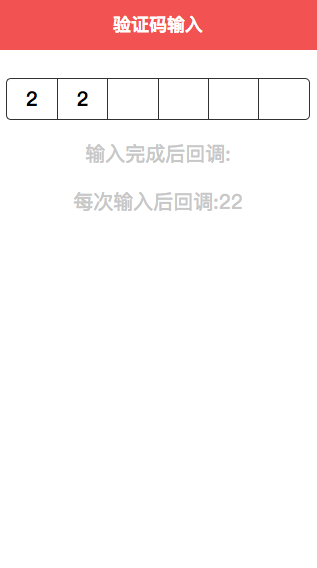
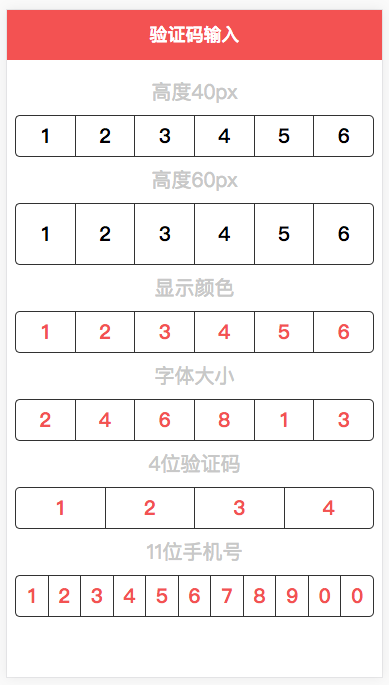
update example

Changed region(s): [[0.0, 0.1197, 0.9937, 0.9278], [0.0, 0.0, 1.0, 0.0898]]

diff --git a/example/VueInputCode.js b/example/VueInputCode.js
@@ -62,6 +62,11 @@
 		el: "#app",
 		data: {
 			code: [],
+			code1: [],
+			code2: [],
+			code3: [],
+			code4: [],
+			code5: [],
 			codeString: "",
 			input: ""
 		},
@@ -9279,7 +9284,7 @@
 	  /* template */
 	  __webpack_require__(11),
 	  /* scopeId */
-	  null,
+	  "data-v-6af92382",
 	  /* cssModules */
 	  null
 	)
@@ -9314,13 +9319,13 @@
 	if(typeof content === 'string') content = [[module.id, content, '']];
 	if(content.locals) module.exports = content.locals;
 	// add the styles to the DOM
-	var update = __webpack_require__(7)("cec73cd0", content, false);
+	var update = __webpack_require__(7)("1eb9046d", content, false);
 	// Hot Module Replacement
 	if(false) {
 	 // When the styles change, update the <style> tags
 	 if(!content.locals) {
-	   module.hot.accept("!!../node_modules/css-loader/index.js!../node_modules/vue-loader/lib/style-rewriter.js?id=data-v-6af92382!../node_modules/vue-loader/lib/selector.js?type=styles&index=0!./inputcode.vue", function() {
-	     var newContent = require("!!../node_modules/css-loader/index.js!../node_modules/vue-loader/lib/style-rewriter.js?id=data-v-6af92382!../node_modules/vue-loader/lib/selector.js?type=styles&index=0!./inputcode.vue");
+	   module.hot.accept("!!../node_modules/css-loader/index.js!../node_modules/vue-loader/lib/style-rewriter.js?id=data-v-6af92382&scoped=true!../node_modules/vue-loader/lib/selector.js?type=styles&index=0!./inputcode.vue", function() {
+	     var newContent = require("!!../node_modules/css-loader/index.js!../node_modules/vue-loader/lib/style-rewriter.js?id=data-v-6af92382&scoped=true!../node_modules/vue-loader/lib/selector.js?type=styles&index=0!./inputcode.vue");
 	     if(typeof newContent === 'string') newContent = [[module.id, newContent, '']];
 	     update(newContent);
 	   });
@@ -9408,7 +9413,7 @@
 
 
 	// module
-	exports.push([module.id, "#vue_input_code {\n  width: 100%; }\n  #vue_input_code .input {\n    width: 100%;\n    position: relative;\n    display: -ms-flexbox;\n    display: flex;\n    -ms-flex-direction: row;\n        flex-direction: row;\n    -ms-flex-pack: center;\n        justify-content: center;\n    -ms-flex-align: center;\n        align-items: center; }\n    #vue_input_code .input > div {\n      border: 1px solid #323232;\n      font-weight: 900;\n      background-color: white; }\n      #vue_input_code .input > div:nth-child(n) {\n        border-right: none; }\n      #vue_input_code .input > div:last-child {\n        border-top-right-radius: 5px;\n        border-bottom-right-radius: 5px;\n        border-right: 1px solid #323232; }\n      #vue_input_code .input > div input {\n        font-size: 20px;\n        width: 90%;\n        color: #323232;\n        text-align: center;\n        outline: none;\n        border: none;\n        margin-right: 5px; }\n    #vue_input_code .input .input-code {\n      position: absolute;\n      top: 0;\n      left: 0;\n      margin-left: 1%;\n      border: none;\n      background: none;\n      display: -ms-flexbox;\n      display: flex;\n      -ms-flex-direction: row;\n          flex-direction: row;\n      -ms-flex-pack: center;\n          justify-content: center;\n      -ms-flex-align: center;\n          align-items: center; }\n    #vue_input_code .input > span {\n      border: 1px solid #323232;\n      font-weight: 900;\n      background-color: white;\n      display: inline-block;\n      text-align: center;\n      font-size: 20px; }\n      #vue_input_code .input > span:nth-child(n) {\n        border-right: none; }\n      #vue_input_code .input > span:first-child {\n        border-top-left-radius: 5px;\n        border-bottom-left-radius: 5px; }\n      #vue_input_code .input > span:last-child {\n        border-top-right-radius: 5px;\n        border-bottom-right-radius: 5px;\n        border-right: 1px solid #323232; }\n    #vue_input_code .input > span.first {\n      border-top-left-radius: 5px;\n      border-bottom-left-radius: 5px; }\n    #vue_input_code .input .input-code.first {\n      border-top-left-radius: 5px;\n      border-bottom-left-radius: 5px; }\n    #vue_input_code .input .input-code.last {\n      border-top-right-radius: 5px;\n      border-bottom-right-radius: 5px; }\n", ""]);
+	exports.push([module.id, "#vue_input_code {\n  width: 100%; }\n  #vue_input_code .input {\n    width: 100%;\n    position: relative;\n    display: -ms-flexbox;\n    display: flex;\n    -ms-flex-direction: row;\n        flex-direction: row;\n    -ms-flex-pack: center;\n        justify-content: center;\n    -ms-flex-align: center;\n        align-items: center; }\n    #vue_input_code .input > div {\n      border: 1px solid #323232;\n      font-weight: 900;\n      background-color: white; }\n      #vue_input_code .input > div:nth-child(n) {\n        border-right: none; }\n      #vue_input_code .input > div:last-child {\n        border-top-right-radius: 5px;\n        border-bottom-right-radius: 5px;\n        border-right: 1px solid #323232; }\n      #vue_input_code .input > div input {\n        font-size: 20px;\n        width: 90%;\n        color: #323232;\n        text-align: center;\n        outline: none;\n        border: none;\n        margin-right: 5px;\n        -webkit-tap-highlight-color: rgba(255, 255, 255, 0); }\n    #vue_input_code .input .input-code {\n      position: absolute;\n      top: 0;\n      left: 0;\n      margin-left: 1%;\n      border: none;\n      background: none;\n      display: -ms-flexbox;\n      display: flex;\n      -ms-flex-direction: row;\n          flex-direction: row;\n      -ms-flex-pack: center;\n          justify-content: center;\n      -ms-flex-align: center;\n          align-items: center; }\n    #vue_input_code .input > span {\n      border: 1px solid #323232;\n      font-weight: 900;\n      background-color: white;\n      display: inline-block;\n      text-align: center;\n      font-size: 20px; }\n      #vue_input_code .input > span:nth-child(n) {\n        border-right: none; }\n      #vue_input_code .input > span:first-child {\n        border-top-left-radius: 5px;\n        border-bottom-left-radius: 5px; }\n      #vue_input_code .input > span:last-child {\n        border-top-right-radius: 5px;\n        border-bottom-right-radius: 5px;\n        border-right: 1px solid #323232; }\n    #vue_input_code .input > span.first {\n      border-top-left-radius: 5px;\n      border-bottom-left-radius: 5px; }\n    #vue_input_code .input .input-code.first {\n      border-top-left-radius: 5px;\n      border-bottom-left-radius: 5px; }\n    #vue_input_code .input .input-code.last {\n      border-top-right-radius: 5px;\n      border-bottom-right-radius: 5px; }\n", ""]);
 
 	// exports
 

diff --git a/example/example.html b/example/example.html
@@ -30,7 +30,12 @@
       display: inline-block;
     }
     #app{
-      padding-top:70px;
+      padding-top:50px;
+    }
+    p{
+      color:#c8c8c8;
+      text-align: center;
+      margin:10px 0;
     }
   </style>
 </head>
@@ -38,11 +43,20 @@
 <body>
   <header class="header"><span>验证码输入</span></header>
 	<div id="app">
-		<vue-input-code span-size="20px" type="number" :number="6" height="50px" span-color="#f35252" input-color="#3498db" input-size="24px" :code="code" :getinput="getInput" :success="success"></vue-input-code>
-    <p style="color:#c8c8c8;text-align: center;">输入完成后回调:{{codeString}}</p>
-    <p style="color:#c8c8c8;text-align: center;">每次输入后回调:{{input}}</p>
+    <p>高度40px</p>
+		<vue-input-code span-size="20px" type="number" :number="6" height="40px" span-color="#000" input-color="#000" input-size="20px" :code="code" :getinput="getInput" :success="success"></vue-input-code>
+    <p>高度60px</p>
+    <vue-input-code span-size="20px" type="number" :number="6" height="60px" span-color="#000" input-color="#000" input-size="20px" :code="code1" :getinput="getInput" :success="success"></vue-input-code>
+    <p>显示颜色</p>
+    <vue-input-code span-size="20px" type="number" :number="6" height="40px" span-color="#f35252" input-color="#3498db" input-size="20px" :code="code2" :getinput="getInput" :success="success"></vue-input-code>
+    <p>字体大小</p>
+    <vue-input-code span-size="20px" type="number" :number="6" height="40px" span-color="#f35252" input-color="#3498db" input-size="26px" :code="code3" :getinput="getInput" :success="success"></vue-input-code>
+    <p>4位验证码</p>
+    <vue-input-code span-size="20px" type="number" :number="4" height="40px" span-color="#f35252" input-color="#3498db" input-size="26px" :code="code4" :getinput="getInput" :success="success"></vue-input-code>
+    <p>11位手机号</p>
+    <vue-input-code span-size="20px" type="number" :number="11" height="40px" span-color="#f35252" input-color="#3498db" input-size="26px" :code="code5" :getinput="getInput" :success="success"></vue-input-code>
 	</div>
-  <script type="text/javascript" src="../example/VueInputCode.js"></script>
+  <script type="text/javascript" src="./VueInputCode.js"></script>
 </body>
 
 </html>

diff --git a/example/index.js b/example/index.js
@@ -6,6 +6,11 @@ new Vue({
 	el:"#app",
 	data:{
 		code:[],
+		code1:[],
+		code2:[],
+		code3:[],
+		code4:[],
+		code5:[],
 		codeString:"",
 		input:""
 	},
